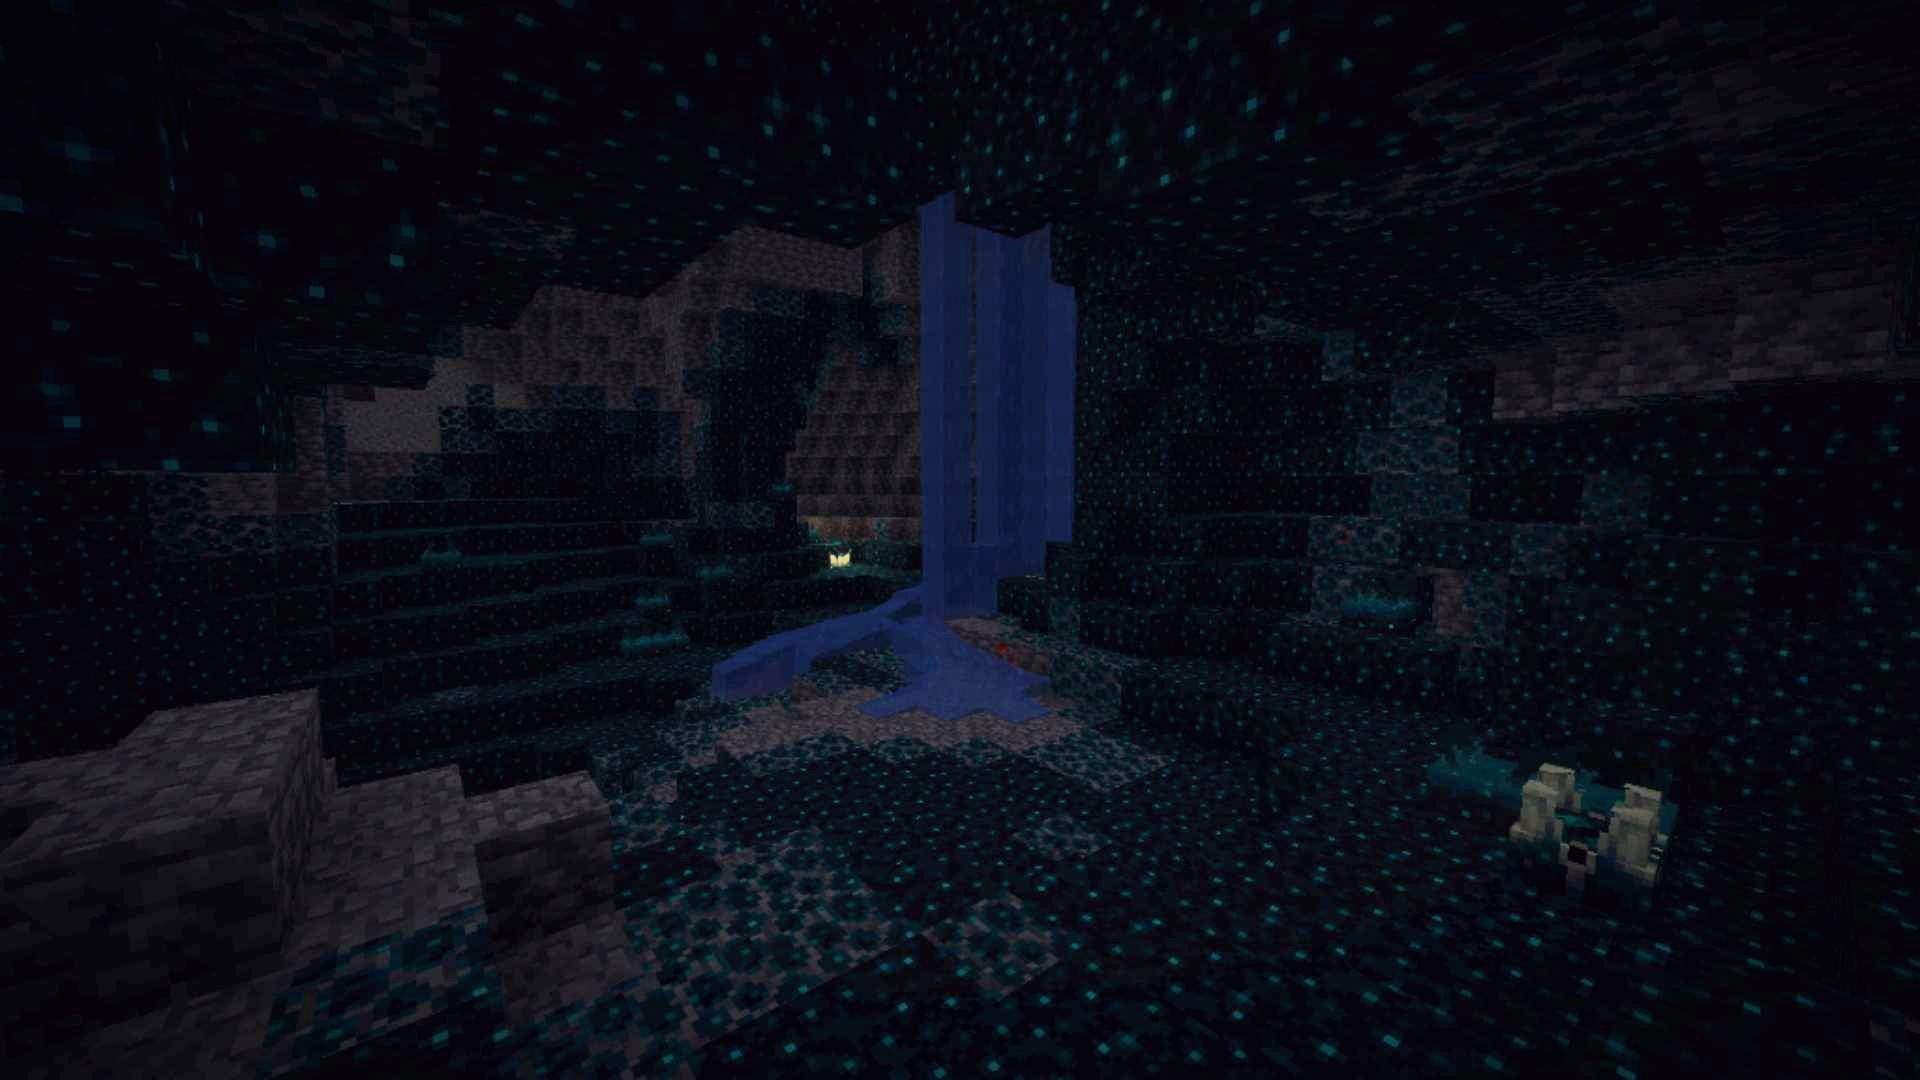
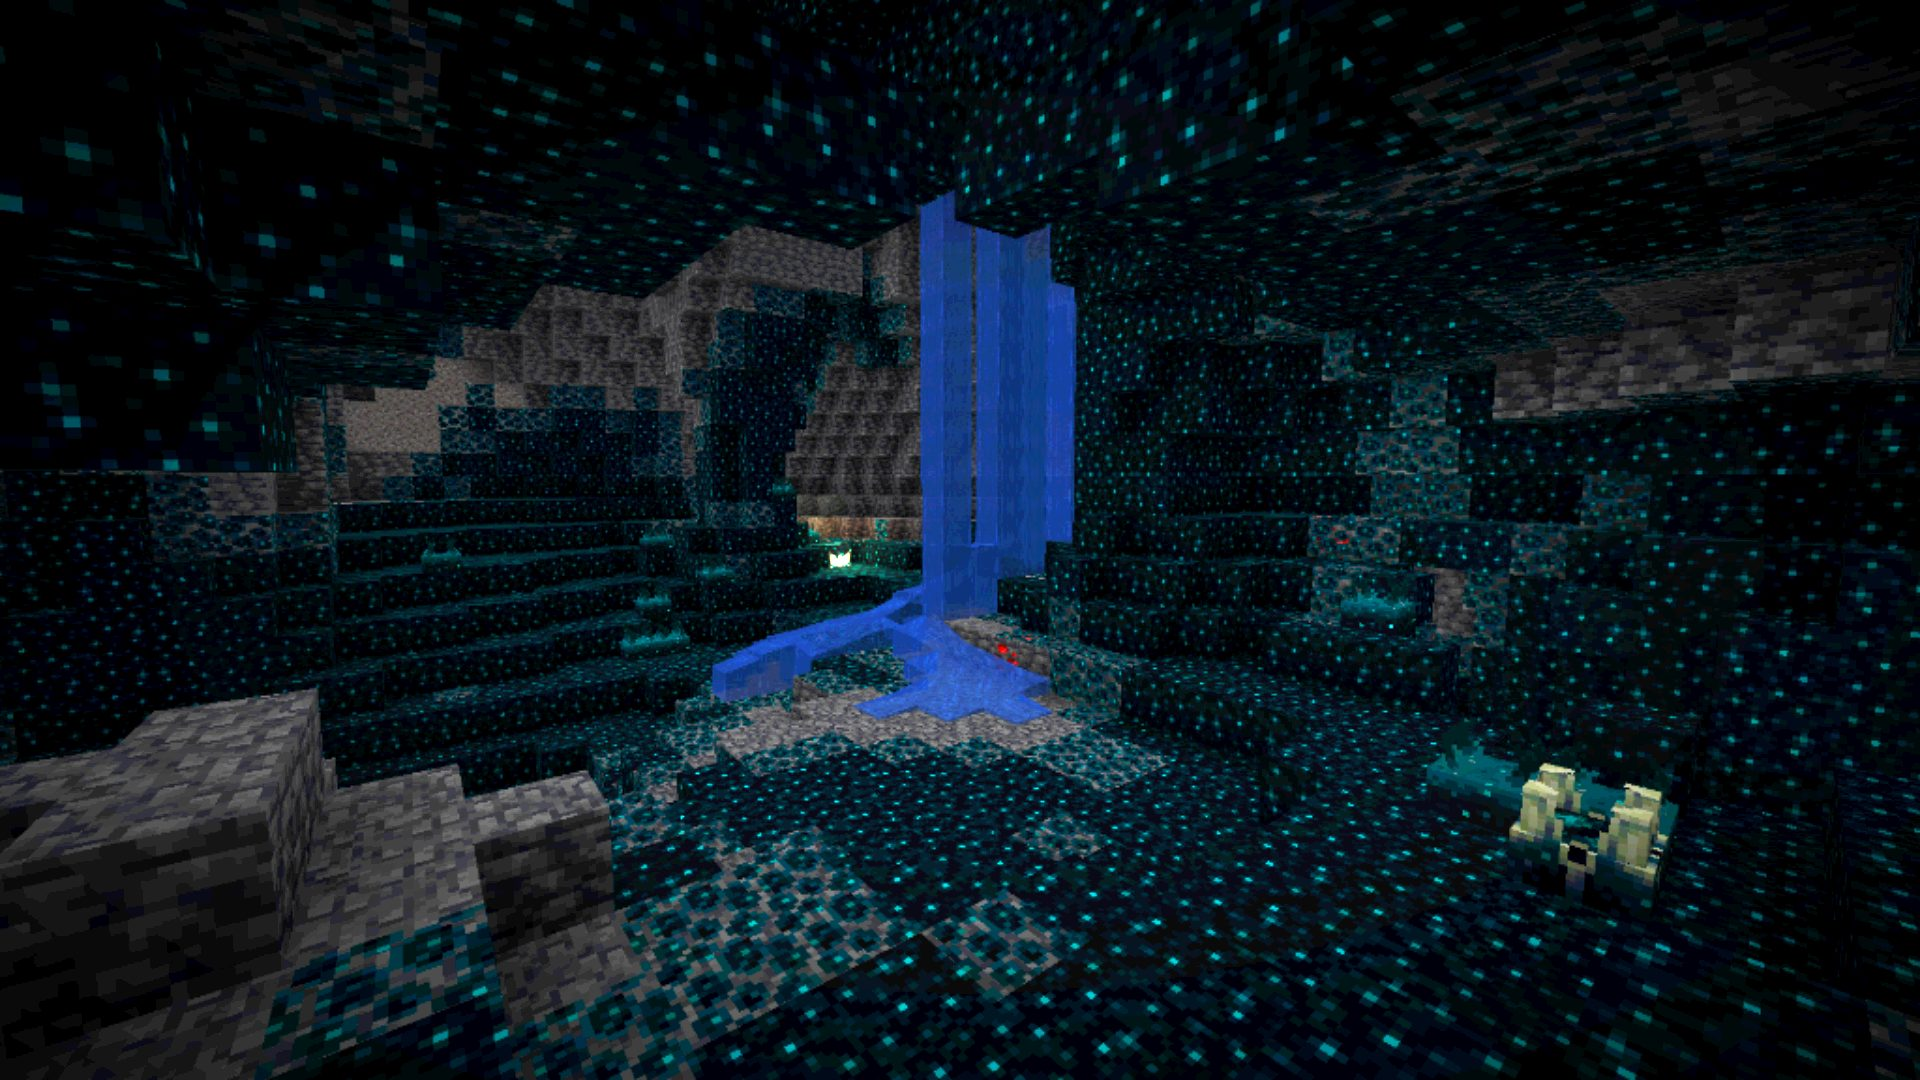
MC bg: 3.5x brighter image, 80% opacity, minimal overlay at top

diff --git a/app/globals.css b/app/globals.css
@@ -8,8 +8,8 @@
 html{scroll-behavior:smooth;font-size:112.5%}
 body{font-family:'Outfit',sans-serif;background:var(--bg);color:var(--t1);min-height:100vh;-webkit-font-smoothing:antialiased;position:relative}
 .bg-ambient{position:fixed;inset:0;z-index:-1;overflow:hidden}
-.bg-ambient .bg-img{position:absolute;inset:0;background:url('/mc-bg.jpg') center top/cover no-repeat;opacity:.55;filter:brightness(.7) saturate(1.1)}
-.bg-ambient .bg-overlay{position:absolute;inset:0;background:linear-gradient(180deg,rgba(6,5,13,.1) 0%,rgba(6,5,13,.4) 30%,rgba(6,5,13,.85) 60%,var(--bg) 85%)}
+.bg-ambient .bg-img{position:absolute;inset:0;background:url('/mc-bg.jpg') center top/cover no-repeat;opacity:.8;filter:brightness(1) saturate(1.2)}
+.bg-ambient .bg-overlay{position:absolute;inset:0;background:linear-gradient(180deg,rgba(6,5,13,0) 0%,rgba(6,5,13,.15) 15%,rgba(6,5,13,.5) 40%,rgba(6,5,13,.88) 65%,var(--bg) 85%)}
 .bg-blur-overlay{position:fixed;inset:0;z-index:-1;backdrop-filter:blur(calc(var(--scroll-blur,0) * 1px));-webkit-backdrop-filter:blur(calc(var(--scroll-blur,0) * 1px));pointer-events:none;transition:backdrop-filter .2s}
 ::-webkit-scrollbar{width:4px}::-webkit-scrollbar-track{background:var(--bg)}::-webkit-scrollbar-thumb{background:var(--p7);border-radius:2px}
 
